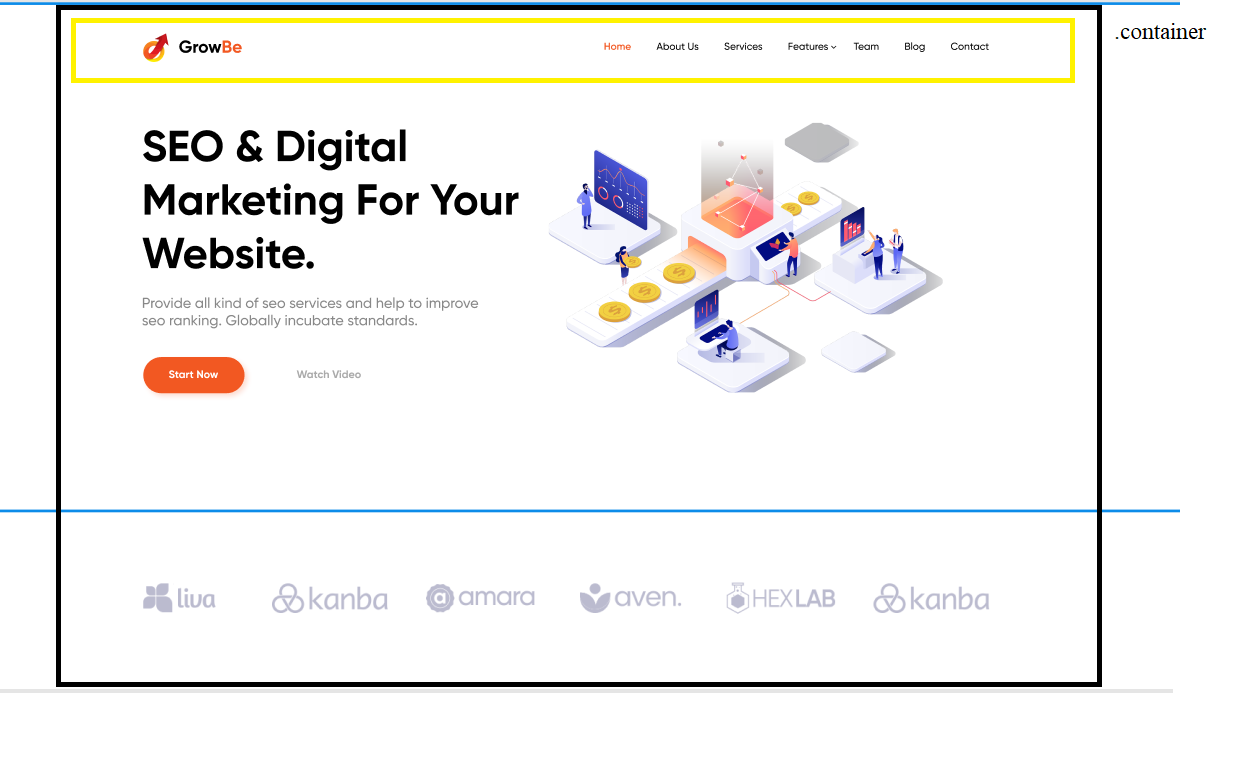
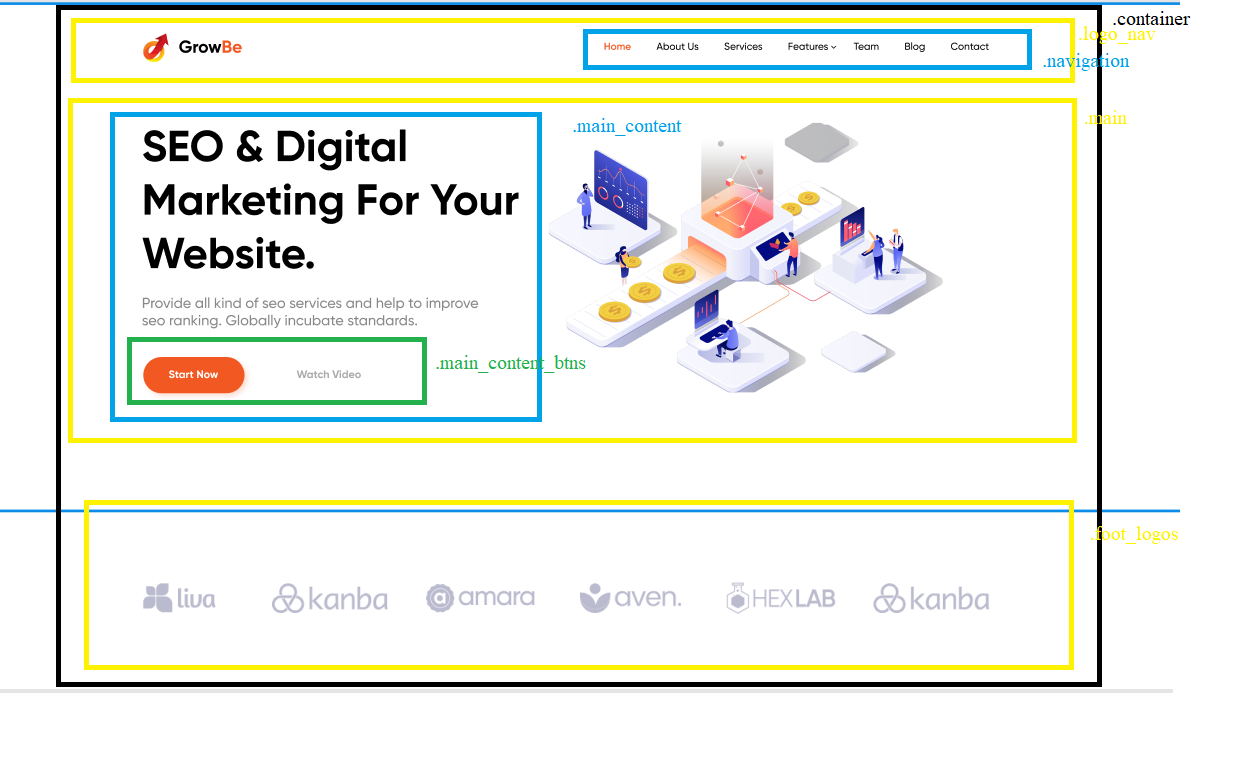
Add block struct, header, main, footer

Changed region(s): [[0.031, 0.1201, 0.8998, 0.6005], [0.0621, 0.6305, 0.9308, 0.9008], [0.4654, 0.0, 0.9618, 0.0901]]

diff --git a/work_4/index.html b/work_4/index.html
@@ -6,5 +6,37 @@
     <title>Work 4</title>
     <link rel="stylesheet" href="style.css" />
   </head>
-  <body></body>
+  <body>
+    <header>
+      <div class="logo_nav">
+        <img src="./image/header_logo.png" alt="header_logo" />
+        <div class="navigation">
+          <a class="first_nav_link" href="#"></a>
+          <a class="nav_link" href="#">Home</a>
+          <a class="nav_link" href="#">About US</a>
+          <a class="nav_link" href="#">Services</a>
+          <a class="nav_link" href="#">Features</a>
+          <a class="nav_link" href="#">Team</a>
+          <a class="nav_link" href="#">Blog</a>
+          <a class="nav_link" href="#">Contact</a>
+        </div>
+      </div>
+    </header>
+    <main>
+      <div class="main_content">
+        <h1 class="title">SEO & Digital Marketing For Your Website.</h1>
+        <p class="text">
+          Provide all kind of seo services and help to improve seo ranking.
+          Globally incubate standards.
+        </p>
+        <div class="main_content_btns">
+          <button class="start_now"></button>
+          <button class="watch_video"></button>
+        </div>
+      </div>
+    </main>
+    <footer>
+      <div class="foot_logos"></div>
+    </footer>
+  </body>
 </html>
